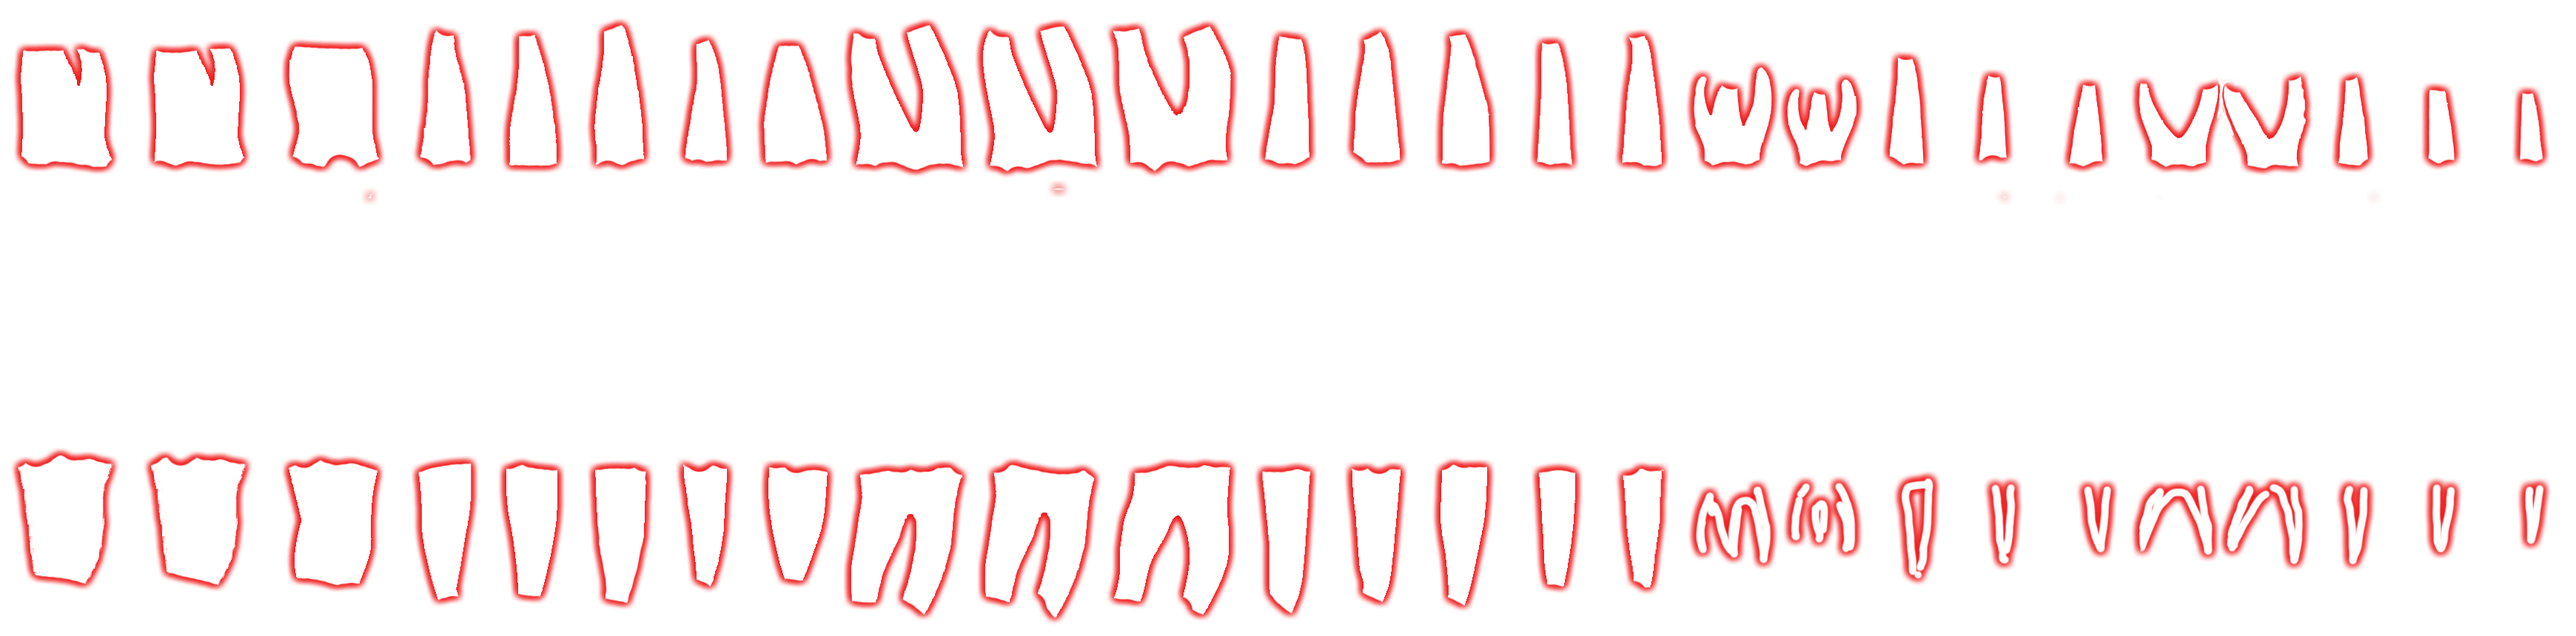
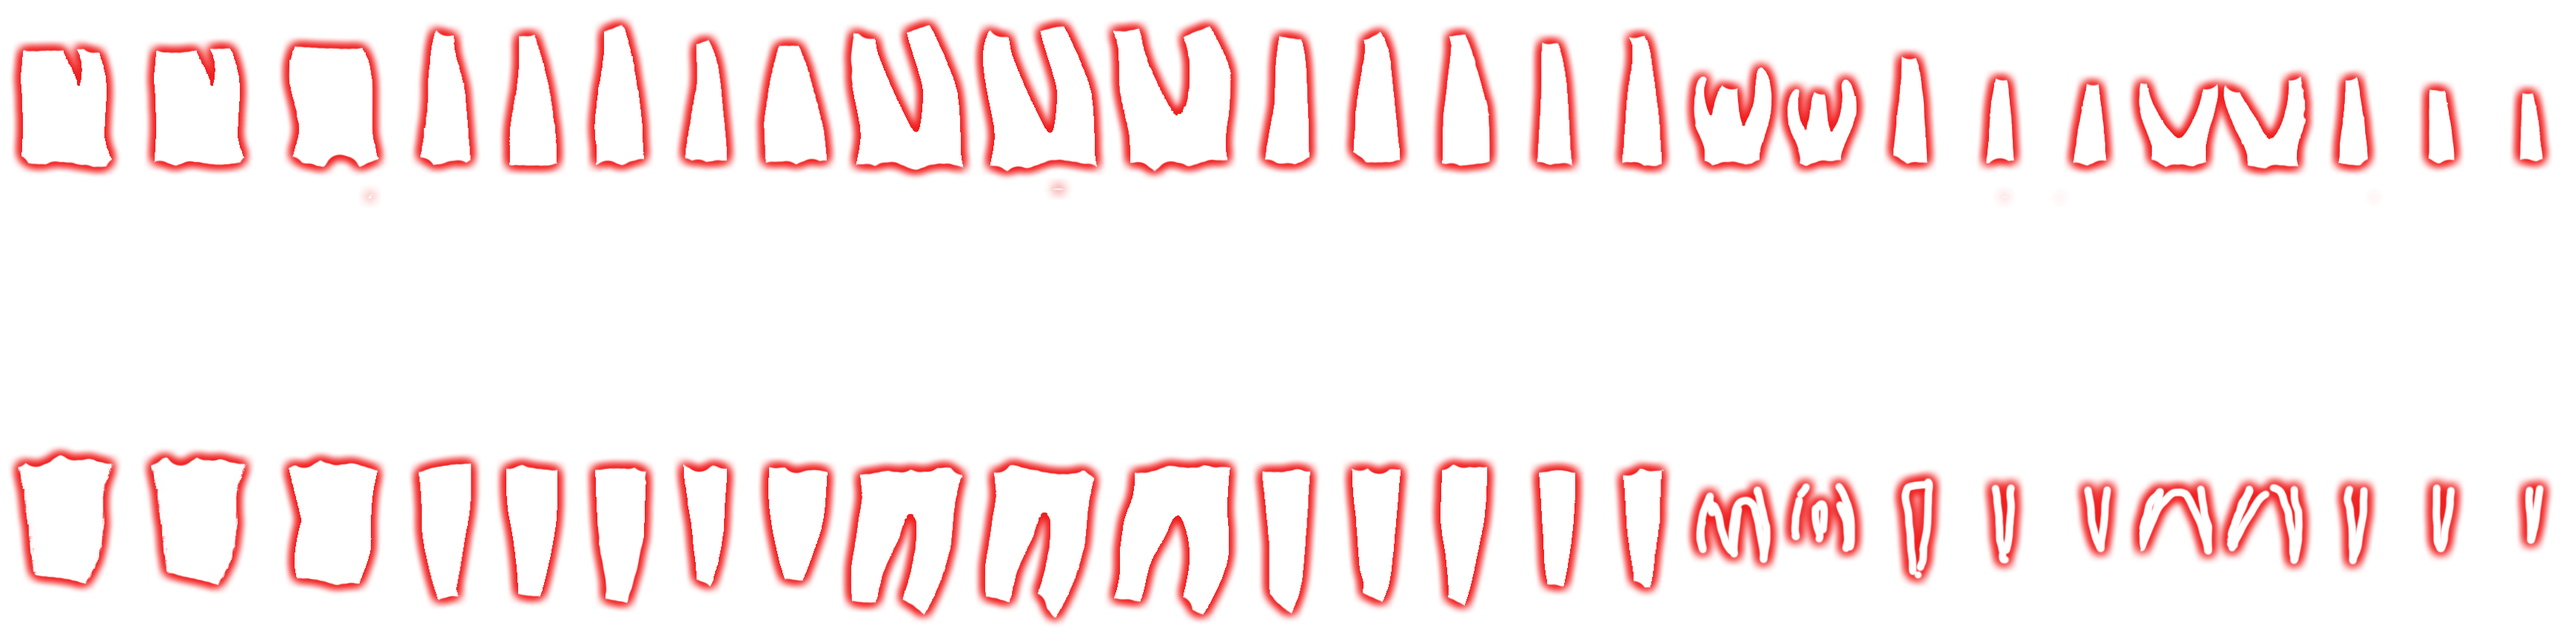
temp teeth spritesheet fix. qdebug removed almost everywhere.

Changed region(s): [[0.0, 0.0302, 0.9931, 0.3023], [0.0, 0.6953, 0.9931, 0.9674], [0.0, 0.907, 0.031, 0.9372]]

diff --git a/src/Presenter/SettingsMainPresenter.cpp b/src/Presenter/SettingsMainPresenter.cpp
@@ -131,7 +131,7 @@ bool SettingsMainPresenter::applyChanges()
 	//rzi primary key db check
 	if (practice.rziCode != User::practice().rziCode &&  //if the practice rzi has been changed
 		DbPractice::practiceExists(practice.rziCode) //but the new rzi already exists in the db
-	) 
+		)
 	{
 		view->focusTab(SettingsTab::Practice);
 		ModalDialogBuilder::showError("Практика с такъв РЗИ номер вече съществува");
@@ -143,11 +143,11 @@ bool SettingsMainPresenter::applyChanges()
 	//lpk primary key db check
 	if (doctor.LPK != User::doctor().LPK &&
 		DbDoctor::suchDoctorExists(doctor.LPK)
-	)
+		)
 	{
 		view->focusTab(SettingsTab::Doctor);
 		ModalDialogBuilder::showError(
-			"Доктор с такъв УИН вече съществува. За да го добавите, " 
+			"Доктор с такъв УИН вече съществува. За да го добавите, "
 			"използвайте \"Добави лекар\" от раздел \"Практика\". "
 			"След това излезте от текущия профил и влезте с УИН-а на другия лекар."
 		);
@@ -231,7 +231,7 @@ bool SettingsMainPresenter::applyChanges()
 
 	return true;
 }
-#include <qdebug.h>
+
 void SettingsMainPresenter::sqlCommandExec(const std::string& sql)
 {
 

diff --git a/src/View/Graphics/ToothPainter.cpp b/src/View/Graphics/ToothPainter.cpp
@@ -638,7 +638,12 @@ QPixmap ToothPainter::getOcclusal(const ToothPaintHint& tooth)
     toothPx.fill(Qt::transparent);
 
     QPainter toothPainter(&toothPx);
-
+/*
+    if (tooth.calculus)
+    {
+        toothPainter.drawPixmap(coords.crownRect, *currentTexture.calculus);
+    }
+*/
     toothPainter.drawPixmap(0, 0, *currentTexture.tooth);
 
     toothPainter.setOpacity(0.35);
@@ -658,6 +663,7 @@ QPixmap ToothPainter::getOcclusal(const ToothPaintHint& tooth)
         }
 
     }
+
 
     //transforming:
 

diff --git a/src/Database/Database.cpp b/src/Database/Database.cpp
@@ -87,13 +87,13 @@ void Db::newStatement(const std::string& query)
     finalizeStatement();
     sqlite3_prepare_v2(db_connection, query.c_str(), -1, &stmt, NULL);
 }
-//#include <qdebug.h>
+
 bool Db::execute(const std::string& query)
 {
     char* err;
     finalizeStatement();
     int i = sqlite3_exec(db_connection, query.c_str(), NULL, NULL, &err);
-   // qDebug() << query.c_str();
+
     if (err && s_showError) {
         ModalDialogBuilder::showError(database_error_msg);
     }

diff --git a/src/View/Widgets/DetailedStatus.cpp b/src/View/Widgets/DetailedStatus.cpp
@@ -71,7 +71,7 @@ void DetailedStatus::setHistoryData(const std::vector<Procedure>& history)
 	ui.tableView->setHorizontalScrollBarPolicy(Qt::ScrollBarAsNeeded);
 	ui.tableView->horizontalHeader()->setSectionResizeMode(8, QHeaderView::Stretch);
 	ui.tableView->setShowGrid(false);
-	
+	ui.tableView->verticalHeader()->setSectionResizeMode(QHeaderView::ResizeToContents);
 }
 
 void DetailedStatus::sendTableStatesToPresenter()

diff --git a/src/View/uiComponents/TableView.cpp b/src/View/uiComponents/TableView.cpp
@@ -8,7 +8,6 @@
 #include <QStyledItemDelegate>
 #include <QMenu>
 
-#include "qdebug.h"
 
 class NoFocusDelegate : public QStyledItemDelegate
 {
@@ -349,8 +348,6 @@ void TableView::dropEvent(QDropEvent* e)
 int TableView::selectedRow()
 {
     if (selectionModel() == nullptr) return -1;
-
-   // qDebug() << "Source row:" << selectionModel()->currentIndex().row();
 
     return selectionModel()->currentIndex().row();
 }

diff --git a/src/Model/Dental/ToothContainer.cpp b/src/Model/Dental/ToothContainer.cpp
@@ -165,13 +165,12 @@ void ToothContainer::setStatus(const std::vector<int>& selectedIndexes, Dental::
 		removeNonRetainedConstructions();
 	}
 }
-#include "qdebug.h"
+
 void ToothContainer::removeEveryStatus(const std::vector<int>& selectedTeethidx)
 {
 	for (auto idx : selectedTeethidx)
 	{
 		teeth[idx].clearStatuses();
-		qDebug() << teeth[idx].noData();
 	}
 	
 	formatBridges(selectedTeethidx);

diff --git a/src/Network/HIS/GetNumenclature.cpp b/src/Network/HIS/GetNumenclature.cpp
@@ -1,8 +1,7 @@
 #include "GetNumenclature.h"
 #include "View/ModalDialogBuilder.h"
 #include "Model/FreeFunctions.h"
-#include "Database/DbPatient.h"
-#include <qdebug.h>
+
 
 GetNumenclature::GetNumenclature() :
 	HisService("C001", "/v1/nomenclatures/all/get")

diff --git a/src/DbUpdates/Update12_18.cpp b/src/DbUpdates/Update12_18.cpp
@@ -1,7 +1,6 @@
 #include "Database/Database.h"
 #include "DbUpdates.h"
 #include "Resources.h"
-#include <qdebug.h>
 #include "Database/DbPatient.h"
 #include "Model/FreeFunctions.h"
 #include "GlobalSettings.h"

diff --git a/src/View/TableModels/ProcedureTemplateModel.cpp b/src/View/TableModels/ProcedureTemplateModel.cpp
@@ -3,7 +3,7 @@
 #include <QPainter>
 #include <QEvent>
 #include <QMouseEvent>
-#include <qdebug.h>
+
 
 ProcedureTemplateModel::ProcedureTemplateModel(QObject *parent)
     : QAbstractTableModel(parent)

diff --git a/src/View/Widgets/FiscalReportView.cpp b/src/View/Widgets/FiscalReportView.cpp
@@ -2,7 +2,7 @@
 #include "QtVersion.h"
 #include "Model/Date.h"
 #include <QPainter>
-#include <qdebug.h>
+
 FiscalReportView::FiscalReportView(QWidget *parent)
 	: QWidget(parent)
 {

diff --git a/src/Network/AbstractReplyHandler.cpp b/src/Network/AbstractReplyHandler.cpp
@@ -1,6 +1,5 @@
 #include "AbstractReplyHandler.h"
 #include "TinyXML/tinyxml.h"
-#include "QDebug"
 #include "View/ModalDialogBuilder.h"
 #include "NetworkManager.h"
 

diff --git a/src/Database/DbUpdateStatus.cpp b/src/Database/DbUpdateStatus.cpp
@@ -1,7 +1,6 @@
 #include "DbUpdateStatus.h"
 #include "Database.h"
 #include "Model/Date.h"
-#include <qdebug.h>
 
 std::string numRowNames[1]{"med"};
 
